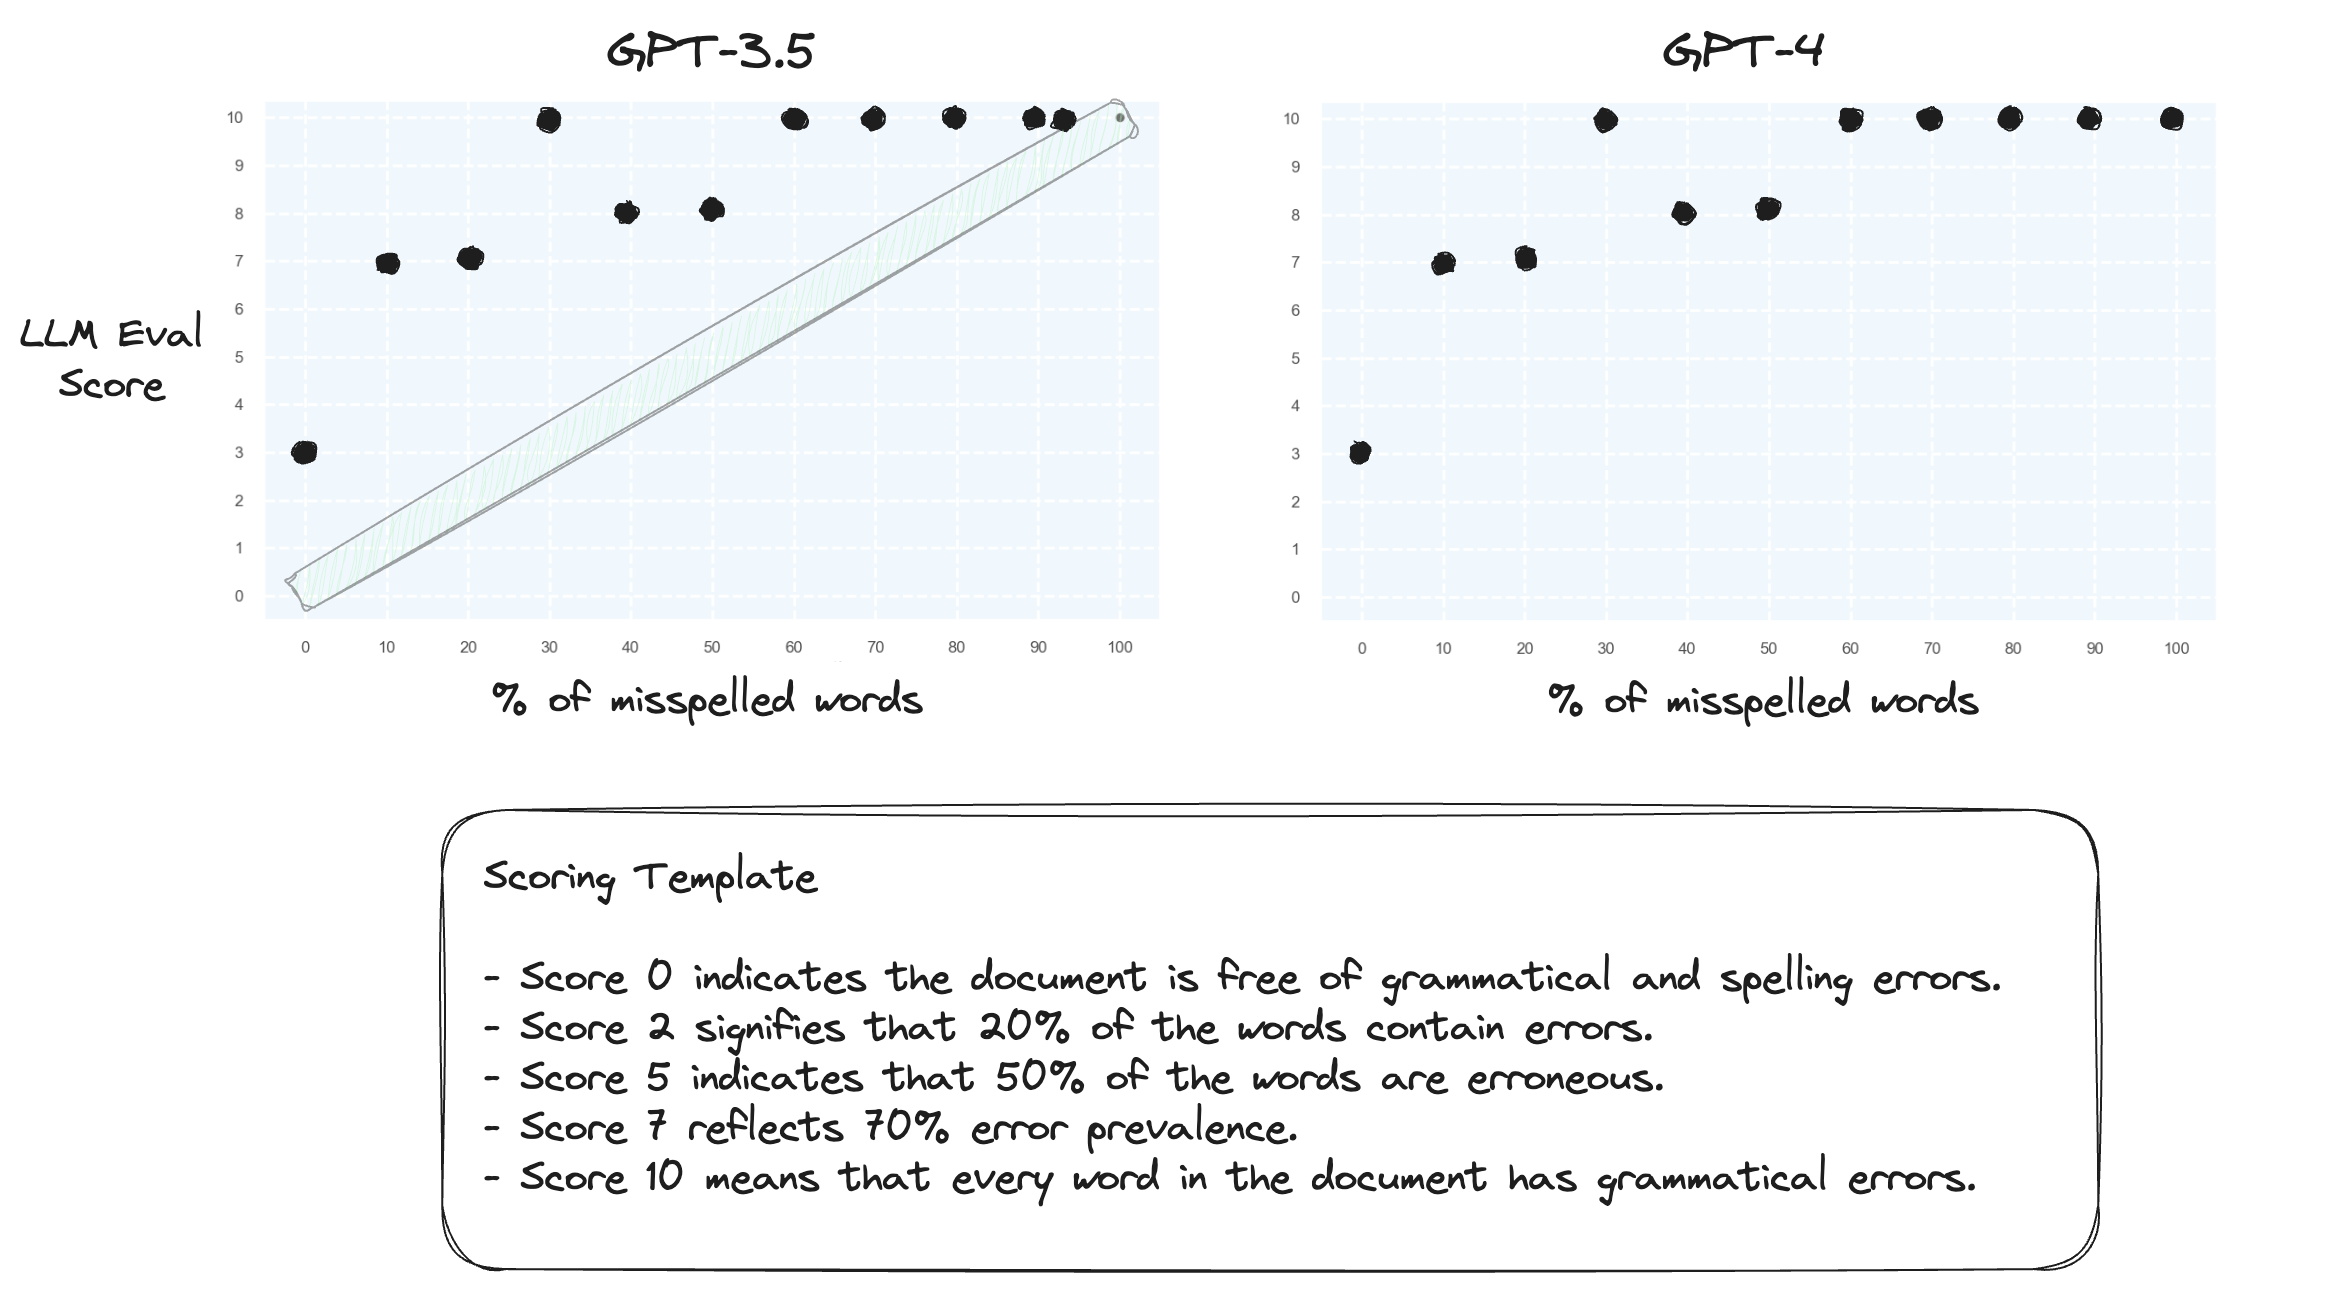
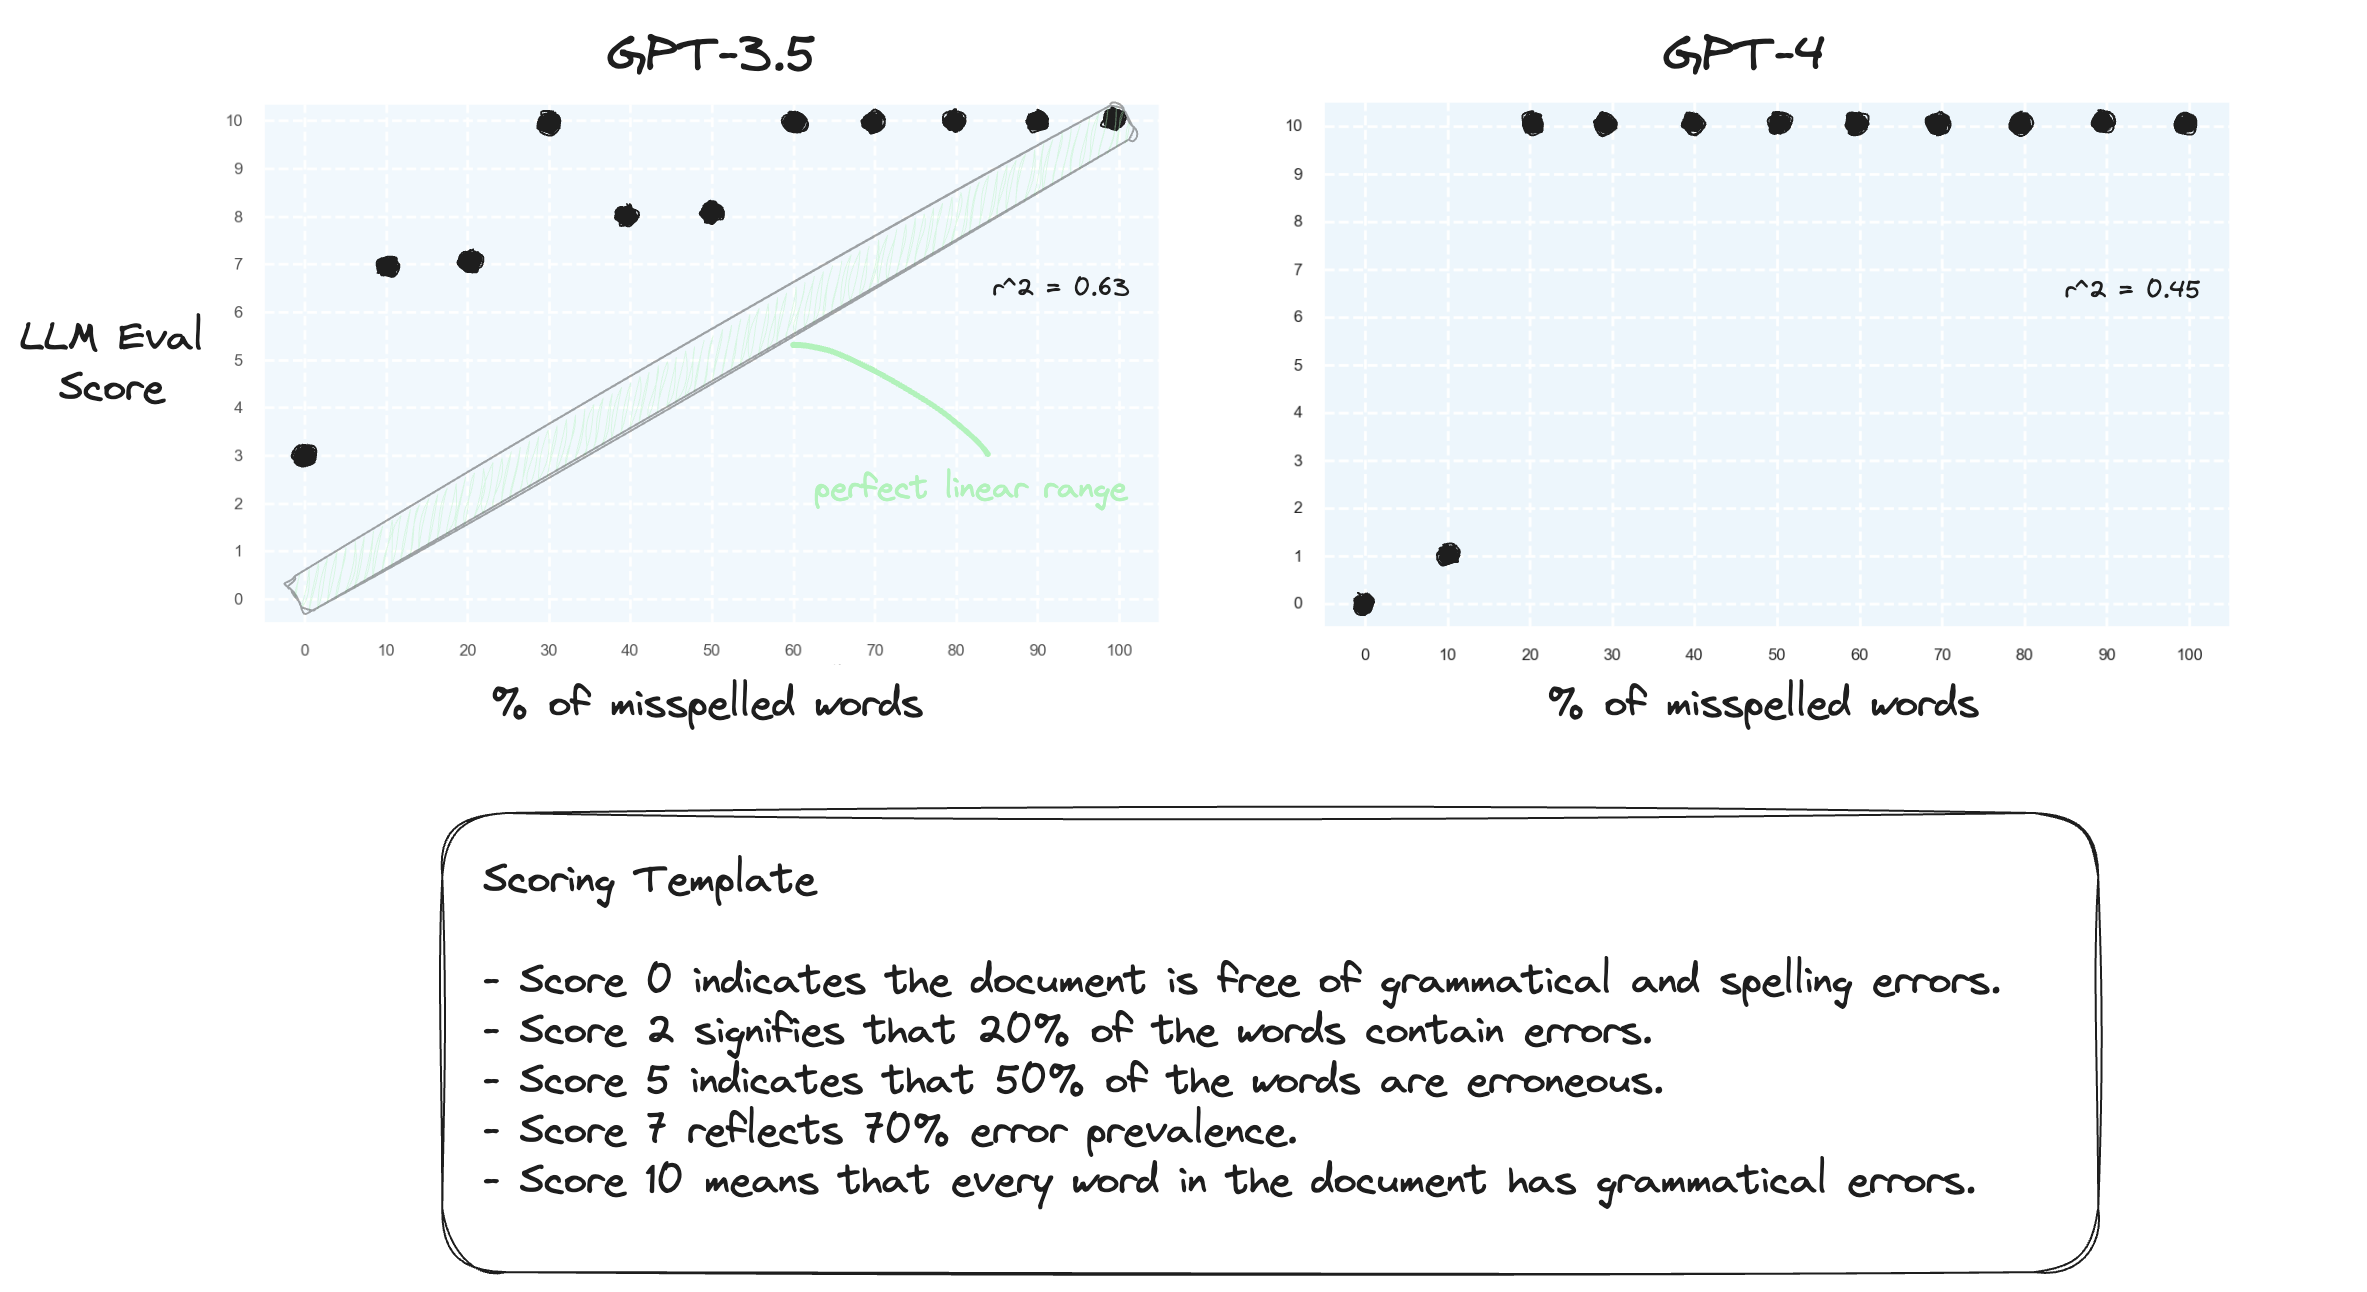
update readme

diff --git a/README.md b/README.md
@@ -45,10 +45,10 @@ GPT-4: `gpt-4-0125-preview`
 
 GPT-3.5: `gpt-3.5-turbo-1106`
 
-with temperature = 0. 
+at temperature = 0. 
 
 ### Results
-First, let's confirm that LLMs struggle to handle numeric ranges in a zero-shot setting. We prompt GPT-3.5 and GPT-4 with a numeric scoring template, ranging from score 0 to score 10. 
+**Test 1.** Let's confirm that LLMs struggle to handle numeric ranges in a zero-shot setting. We prompt GPT-3.5 and GPT-4 with a numeric scoring template, ranging from score 0 to score 10. 
 
 ![](/figures/scoring_1_10.png)
 
@@ -56,26 +56,36 @@ As expected, both misjudge severely.
 
 --- 
 
-What happens if we reverse the scoring range? Now, a score of 10 represents a perfectly spelt document.
+**Test 2.** What happens if we reverse the scoring range? Now, a score of 10 represents a perfectly spelt document.
 
-![](/figures/gpt-3.5_scoring_1_10_reversed.png)
-![](/figures/gpt-4_scoring_1_10_reversed.png)
+![](/figures/scoring_1_10_reversed.png)
 
 This doesn't seem to make much of a difference.
 
 --- 
+**Test 3.** If we were to believe the hypothesis from Arize, we may see improvements if we avoid a scoring rubric and instead use 'labeled grades'. In this case I decided to move down to a 5-point grading scale.
 
-What about Chain-of-Thought? 
+![](/figures/scoring_grades.png)
 
-![](/figures/gpt-3.5_scoring_1_10_cot.png)
-![](/figures/gpt-4_scoring_1_10_cot.png)
-
-This definitely seems to improve things. We're getting closer to a linear correlation.
+Perhaps slight improvements? Difficult to say honestly. I'm not impressed.
 
 ---
 
-As [suggested](https://twitter.com/seungonekim/status/1749289437165769177) by the author of [Prometheus](https://arxiv.org/pdf/2310.08491.pdf): let's make sure to map an explanation to each score in the prompt. Combine this with CoT.
+**Test 4.** What about zero-shot Chain-of-Thought? 
 
-![](/figures/gpt-3.5_scoring_1_10_cot_full.png)
-![](/figures/gpt-4_scoring_1_10_cot_full.png)
+![](/figures/scoring_1_10_cot.png)
+
+gpt-3.5 devolved into gibberish for two of the prompts. gpt-4 sees improvement when prompted to think-out-loud. Notice how it get's very
+hesitant to assign a score of 10. 
+
+---
+
+**Test 5.** As [suggested](https://twitter.com/seungonekim/status/1749289437165769177) by the author of [Prometheus](https://arxiv.org/pdf/2310.08491.pdf); mapping each score with it's own explanation likely improves the LLMs ability to grade across the entire numeric
+range. This, combined with CoT, results in:
+
+![](/figures/scoring_1_10_full_cot.png)
+
+continued improvements for gpt-4. it's still very relucent to assign boundary scores 0 & 10.
+
+
 
